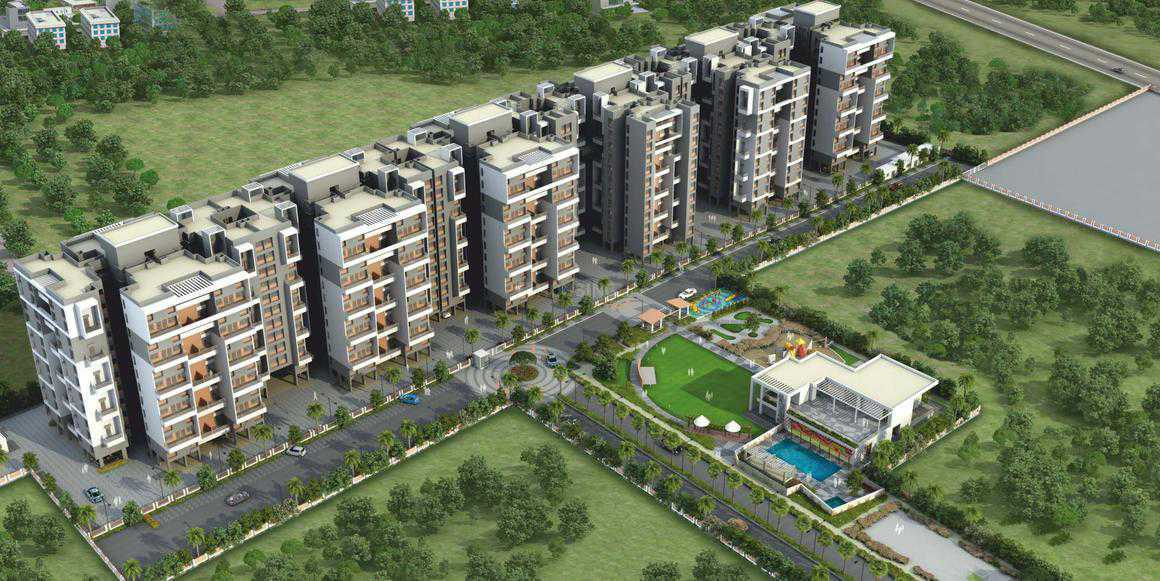
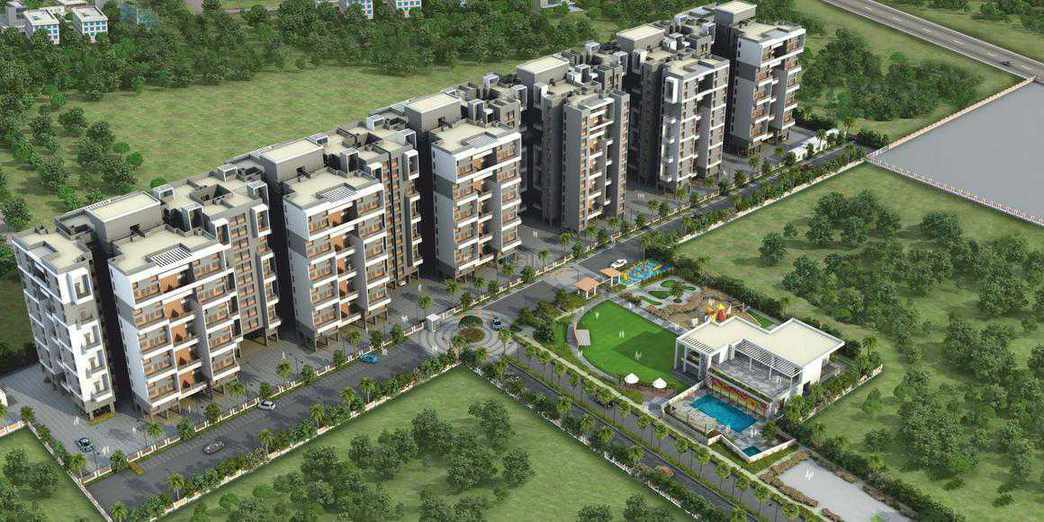
feat: migrate website content to Trump Tower Hyderabad with updated image assets and configuration

diff --git a/index.html b/index.html
@@ -2,16 +2,26 @@
 <html lang="en">
 
 <head>
-  <meta charset="UTF-8" />
-  <meta name="viewport" content="width=device-width, initial-scale=1.0" />
-  <title>Venkatesh Tresor – Ultra-Luxury Residences | Baner, Pune</title>
-  <meta name="description"
-    content="Venkatesh Tresor – Ultra-luxury 3 & 4 BHK residences at Baner, Pune. Starting ₹1.85 Cr. RERA Registered." />
-  <link rel="stylesheet" href="style.css" />
-  <link
-    href="https://fonts.googleapis.com/css2?family=Cormorant+Garamond:wght@300;400;500;600;700&family=DM+Sans:wght@300;400;500&display=swap"
-    rel="stylesheet" />
-  <link rel="stylesheet" href="https://cdnjs.cloudflare.com/ajax/libs/font-awesome/6.4.0/css/all.min.css" />
+  <meta charset="utf-8">
+  <meta name="viewport" content="width=device-width, initial-scale=1.0">
+  <title>Trump Tower Hyderabad | Luxury Apartments Kokapet | Luxury Flats Hyderabad</title>
+  <meta name="description" content="Trump Tower Hyderabad is a landmark ultra-luxury residential development located in the prime Golden Mile area of Kokapet. Crafted for those who aspire to live an elite lifestyle, this iconic project offers premium 3, 4, and 5 BHK residences with world-class amenities, sophisticated interiors, and stunning skyline views.">
+  <meta name="keywords" content="Trump Tower Hyderabad, luxury apartments Kokapet, ultra luxury flats Hyderabad, Trump Towers price Hyderabad, 3 BHK luxury homes Hyderabad, 4 BHK apartments Kokapet, premium real estate Hyderabad">
+  <meta name="robots" content="index, follow">
+  <meta name="google-site-verification" content="k4SiPecg_i1sKao26KeGhU2aFF2hq6mYHvLkSuNGQQw">
+  <link rel="canonical" href="https://www.trumptowerproject.com/trump-tower-hyderabad">
+  <meta property="og:title" content="Trump Tower Hyderabad | Ultra Luxury 3,4,5 BHK Kokapet">
+  <meta property="og:description" content="Premium 3, 4 & 5 BHK residences at Kokapet Golden Mile. Starting ₹5 Cr*.">
+  <meta property="og:type" content="website">
+  <script type="application/ld+json">{"@context":"https://schema.org","@type":"Organization","name":"Trump Tower Hyderabad — Authorized Channel Partner","url":"https://www.trumptowerhyderabad.in","description":"Authorized channel partner for Trump Tower Hyderabad luxury residences in Kokapet.","areaServed":"Hyderabad"}</script>
+  <script type="application/ld+json">{"@context":"https://schema.org","@type":"RealEstateListing","name":"Trump Tower Hyderabad","description":"Ultra-luxury 3, 4 and 5 BHK residences at Kokapet Golden Mile. Starting from Rs 5 Crore.","url":"https://www.trumptowerhyderabad.in","address":{"@type":"PostalAddress","streetAddress":"Golden Mile, Kokapet","addressLocality":"Hyderabad","addressRegion":"Telangana","postalCode":"500075","addressCountry":"IN"},"price":"50000000","priceCurrency":"INR"}</script>
+  <script type="application/ld+json">{"@context":"https://schema.org","@type":"BreadcrumbList","itemListElement":[{"@type":"ListItem","position":1,"name":"Home","item":"https://www.trumptowerhyderabad.in/"},{"@type":"ListItem","position":2,"name":"Trump Tower Hyderabad","item":"https://www.trumptowerhyderabad.in/"}]}</script>
+  <script type="application/ld+json">{"@context":"https://schema.org","@type":"FAQPage","mainEntity":[{"@type":"Question","name":"Where is Trump Tower Hyderabad located?","acceptedAnswer":{"@type":"Answer","text":"Trump Tower Hyderabad is in Kokapet Golden Mile with ORR access and proximity to Financial District and HITEC City."}},{"@type":"Question","name":"What configurations are available?","acceptedAnswer":{"@type":"Answer","text":"Ultra-luxury 3 BHK, 4 BHK, and 5 BHK residences from 2,800 to 6,000 sq.ft."}},{"@type":"Question","name":"Is Trump Tower Hyderabad a good investment in 2026?","acceptedAnswer":{"@type":"Answer","text":"Yes. Kokapet projects 12-18% CAGR. Trump brand adds resale premium."}},{"@type":"Question","name":"What is the starting price?","acceptedAnswer":{"@type":"Answer","text":"Starting from Rs 5 Crore for 3 BHK."}},{"@type":"Question","name":"Why is Kokapet Hyderabads luxury hotspot?","acceptedAnswer":{"@type":"Answer","text":"Adjacent to Financial District, ORR, IT parks. Limited land with rising demand — 40-55% price growth since 2022."}},{"@type":"Question","name":"What amenities does Trump Tower offer?","acceptedAnswer":{"@type":"Answer","text":"Rooftop pool, clubhouse, concierge, gym, spa, fine dining, sky lounge, EV charging, and 24/7 smart security."}}]}</script>
+  <link rel="stylesheet" href="https://cdn.jsdelivr.net/npm/bootstrap@5.3.3/dist/css/bootstrap.min.css">
+  <link rel="stylesheet" href="https://cdnjs.cloudflare.com/ajax/libs/font-awesome/6.5.0/css/all.min.css">
+  <link href="trump-tower-hyderabad/css/project-style.css" rel="stylesheet" media="all">
+  <script async src="https://www.googletagmanager.com/gtag/js?id=AW-17033031022"></script>
+  <script>window.dataLayer=window.dataLayer||[];function gtag(){dataLayer.push(arguments);}gtag('js',new Date());gtag('config','AW-17033031022');</script>
 </head>
 
 <body>
@@ -387,7 +397,7 @@
             <!-- Slide 2: Yoga spaces -->
             <div class="amenity-slide-card">
               <div class="amenity-img-wrap">
-                <img src="images/amenity_yoga.png" alt="Yoga Spaces" loading="lazy">
+                <img src="images/amenity_yoga.jpg" alt="Yoga Spaces" loading="lazy">
                 <div class="amenity-badge"><i class="fas fa-hands-praying"></i> Fitness & Wellness</div>
               </div>
               <div class="amenity-card-content">
@@ -400,7 +410,7 @@
             <!-- Slide 3: Wellness zones -->
             <div class="amenity-slide-card">
               <div class="amenity-img-wrap">
-                <img src="images/building_aerial.png" alt="Wellness Zones" loading="lazy">
+                <img src="images/building_aerial.jpg" alt="Wellness Zones" loading="lazy">
                 <div class="amenity-badge"><i class="fas fa-heart-pulse"></i> Fitness & Wellness</div>
               </div>
               <div class="amenity-card-content">
@@ -413,7 +423,7 @@
             <!-- Slide 4: Walking pathways -->
             <div class="amenity-slide-card">
               <div class="amenity-img-wrap">
-                <img src="images/building_day.png" alt="Walking Pathways" loading="lazy">
+                <img src="images/building_day.jpg" alt="Walking Pathways" loading="lazy">
                 <div class="amenity-badge"><i class="fas fa-shoe-prints"></i> Fitness & Wellness</div>
               </div>
               <div class="amenity-card-content">
@@ -427,7 +437,7 @@
             <!-- Slide 5: Indoor activity areas -->
             <div class="amenity-slide-card">
               <div class="amenity-img-wrap">
-                <img src="images/amenity_clubhouse.png" alt="Indoor Activity Areas" loading="lazy">
+                <img src="images/amenity_clubhouse.jpg" alt="Indoor Activity Areas" loading="lazy">
                 <div class="amenity-badge"><i class="fas fa-gamepad"></i> Recreation & Leisure</div>
               </div>
               <div class="amenity-card-content">
@@ -440,7 +450,7 @@
             <!-- Slide 6: Community gathering spaces -->
             <div class="amenity-slide-card">
               <div class="amenity-img-wrap">
-                <img src="images/amenity_clubhouse.png" alt="Community Gathering Spaces" loading="lazy">
+                <img src="images/amenity_clubhouse.jpg" alt="Community Gathering Spaces" loading="lazy">
                 <div class="amenity-badge"><i class="fas fa-users"></i> Recreation & Leisure</div>
               </div>
               <div class="amenity-card-content">
@@ -453,7 +463,7 @@
             <!-- Slide 7: Landscaped open zones -->
             <div class="amenity-slide-card">
               <div class="amenity-img-wrap">
-                <img src="images/amenity_garden.png" alt="Landscaped Open Zones" loading="lazy">
+                <img src="images/amenity_garden.jpg" alt="Landscaped Open Zones" loading="lazy">
                 <div class="amenity-badge"><i class="fas fa-tree"></i> Recreation & Leisure</div>
               </div>
               <div class="amenity-card-content">
@@ -466,7 +476,7 @@
             <!-- Slide 8: Relaxation areas -->
             <div class="amenity-slide-card">
               <div class="amenity-img-wrap">
-                <img src="images/amenity_garden.png" alt="Relaxation Areas" loading="lazy">
+                <img src="images/amenity_garden.jpg" alt="Relaxation Areas" loading="lazy">
                 <div class="amenity-badge"><i class="fas fa-couch"></i> Recreation & Leisure</div>
               </div>
               <div class="amenity-card-content">
@@ -480,7 +490,7 @@
             <!-- Slide 9: Children's play spaces -->
             <div class="amenity-slide-card">
               <div class="amenity-img-wrap">
-                <img src="images/amenity_playarea.png" alt="Children's Play Spaces" loading="lazy">
+                <img src="images/amenity_playarea.jpg" alt="Children's Play Spaces" loading="lazy">
                 <div class="amenity-badge"><i class="fas fa-child"></i> Family-Friendly</div>
               </div>
               <div class="amenity-card-content">
@@ -493,7 +503,7 @@
             <!-- Slide 10: Social interaction zones -->
             <div class="amenity-slide-card">
               <div class="amenity-img-wrap">
-                <img src="images/amenity_clubhouse.png" alt="Social Interaction Zones" loading="lazy">
+                <img src="images/amenity_clubhouse.jpg" alt="Social Interaction Zones" loading="lazy">
                 <div class="amenity-badge"><i class="fas fa-comments"></i> Family-Friendly</div>
               </div>
               <div class="amenity-card-content">
@@ -506,7 +516,7 @@
             <!-- Slide 11: Safe recreational environments -->
             <div class="amenity-slide-card">
               <div class="amenity-img-wrap">
-                <img src="images/amenity_playarea.png" alt="Safe Recreational Environments" loading="lazy">
+                <img src="images/amenity_playarea.jpg" alt="Safe Recreational Environments" loading="lazy">
                 <div class="amenity-badge"><i class="fas fa-shield-halved"></i> Family-Friendly</div>
               </div>
               <div class="amenity-card-content">
@@ -520,7 +530,7 @@
             <!-- Slide 12: Green Open Areas -->
             <div class="amenity-slide-card">
               <div class="amenity-img-wrap">
-                <img src="images/amenity_garden.png" alt="Green Open Areas" loading="lazy">
+                <img src="images/amenity_garden.jpg" alt="Green Open Areas" loading="lazy">
                 <div class="amenity-badge"><i class="fas fa-leaf"></i> Green Open Areas</div>
               </div>
               <div class="amenity-card-content">
@@ -591,7 +601,7 @@
         <!-- Item 1: Building Daytime -->
         <div class="gallery-item" data-category="exterior">
           <div class="gallery-img-wrap">
-            <img src="images/building_day.png" alt="Venkatesh Tresor Grand Elevation Facade" loading="lazy">
+            <img src="images/building_day.jpg" alt="Venkatesh Tresor Grand Elevation Facade" loading="lazy">
             <div class="gallery-hover-overlay">
               <span class="zoom-icon"><i class="fas fa-magnifying-glass-plus"></i></span>
               <div class="gallery-item-info">
@@ -605,7 +615,7 @@
         <!-- Item 2: Building Dusk -->
         <div class="gallery-item" data-category="exterior">
           <div class="gallery-img-wrap">
-            <img src="images/building_dusk.png" alt="Venkatesh Tresor Tower View at Dusk" loading="lazy">
+            <img src="images/building_dusk.jpg" alt="Venkatesh Tresor Tower View at Dusk" loading="lazy">
             <div class="gallery-hover-overlay">
               <span class="zoom-icon"><i class="fas fa-magnifying-glass-plus"></i></span>
               <div class="gallery-item-info">
@@ -619,7 +629,7 @@
         <!-- Item 3: Building Aerial -->
         <div class="gallery-item" data-category="exterior">
           <div class="gallery-img-wrap">
-            <img src="images/building_aerial.png" alt="Venkatesh Tresor Aerial Podium Landscape View" loading="lazy">
+            <img src="images/building_aerial.jpg" alt="Venkatesh Tresor Aerial Podium Landscape View" loading="lazy">
             <div class="gallery-hover-overlay">
               <span class="zoom-icon"><i class="fas fa-magnifying-glass-plus"></i></span>
               <div class="gallery-item-info">
@@ -633,7 +643,7 @@
         <!-- Item 4: Gym -->
         <div class="gallery-item" data-category="amenity">
           <div class="gallery-img-wrap">
-            <img src="images/amenity_gym.png" alt="State-of-the-Art Fitness Center" loading="lazy">
+            <img src="images/amenity_gym.jpg" alt="State-of-the-Art Fitness Center" loading="lazy">
             <div class="gallery-hover-overlay">
               <span class="zoom-icon"><i class="fas fa-magnifying-glass-plus"></i></span>
               <div class="gallery-item-info">
@@ -647,7 +657,7 @@
         <!-- Item 5: Yoga -->
         <div class="gallery-item" data-category="amenity">
           <div class="gallery-img-wrap">
-            <img src="images/amenity_yoga.png" alt="Serene Yoga and Meditation Deck" loading="lazy">
+            <img src="images/amenity_yoga.jpg" alt="Serene Yoga and Meditation Deck" loading="lazy">
             <div class="gallery-hover-overlay">
               <span class="zoom-icon"><i class="fas fa-magnifying-glass-plus"></i></span>
               <div class="gallery-item-info">
@@ -661,7 +671,7 @@
         <!-- Item 6: Play Area -->
         <div class="gallery-item" data-category="amenity">
           <div class="gallery-img-wrap">
-            <img src="images/amenity_playarea.png" alt="Safe Kids Play Park" loading="lazy">
+            <img src="images/amenity_playarea.jpg" alt="Safe Kids Play Park" loading="lazy">
             <div class="gallery-hover-overlay">
               <span class="zoom-icon"><i class="fas fa-magnifying-glass-plus"></i></span>
               <div class="gallery-item-info">
@@ -675,7 +685,7 @@
         <!-- Item 7: Clubhouse -->
         <div class="gallery-item" data-category="amenity">
           <div class="gallery-img-wrap">
-            <img src="images/amenity_clubhouse.png" alt="Premium Clubhouse Lounge" loading="lazy">
+            <img src="images/amenity_clubhouse.jpg" alt="Premium Clubhouse Lounge" loading="lazy">
             <div class="gallery-hover-overlay">
               <span class="zoom-icon"><i class="fas fa-magnifying-glass-plus"></i></span>
               <div class="gallery-item-info">
@@ -689,7 +699,7 @@
         <!-- Item 8: Garden -->
         <div class="gallery-item" data-category="amenity">
           <div class="gallery-img-wrap">
-            <img src="images/amenity_garden.png" alt="Lush Manicured Podium Green Garden" loading="lazy">
+            <img src="images/amenity_garden.jpg" alt="Lush Manicured Podium Green Garden" loading="lazy">
             <div class="gallery-hover-overlay">
               <span class="zoom-icon"><i class="fas fa-magnifying-glass-plus"></i></span>
               <div class="gallery-item-info">
